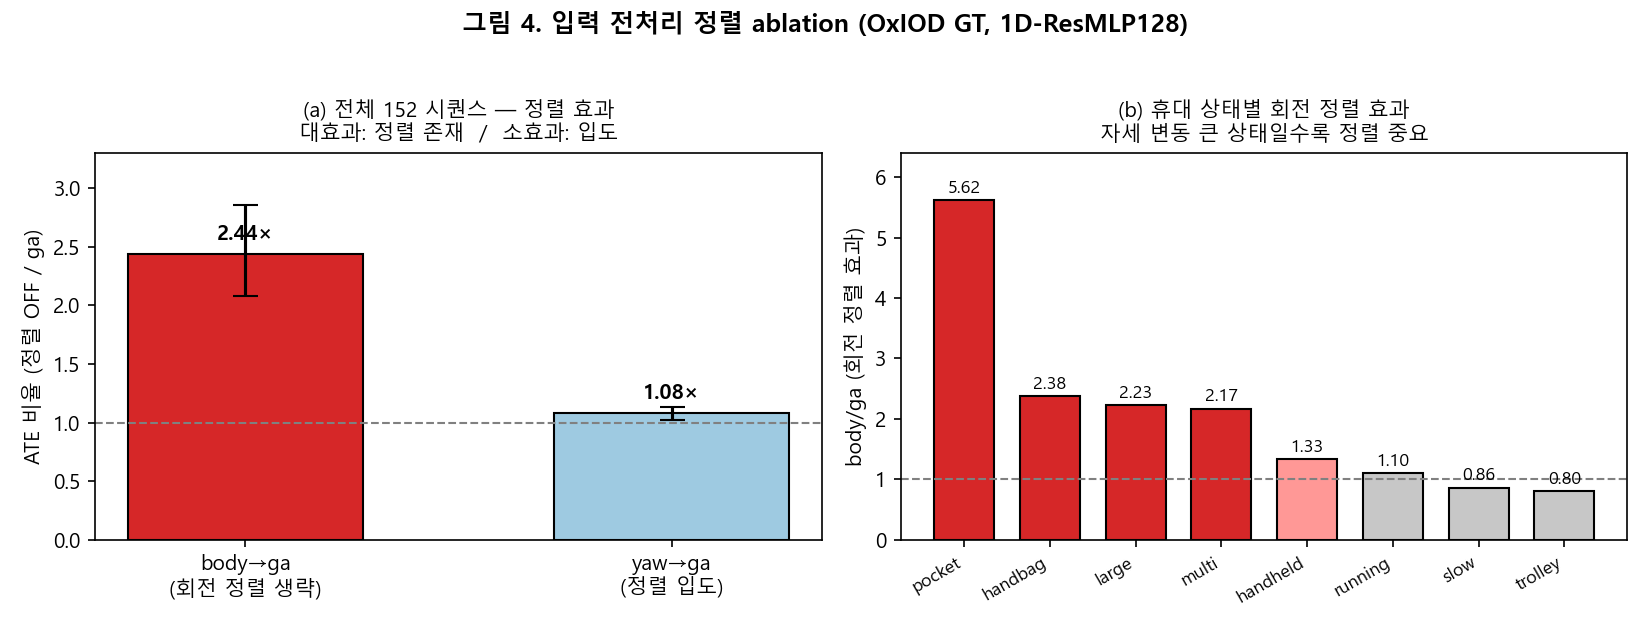
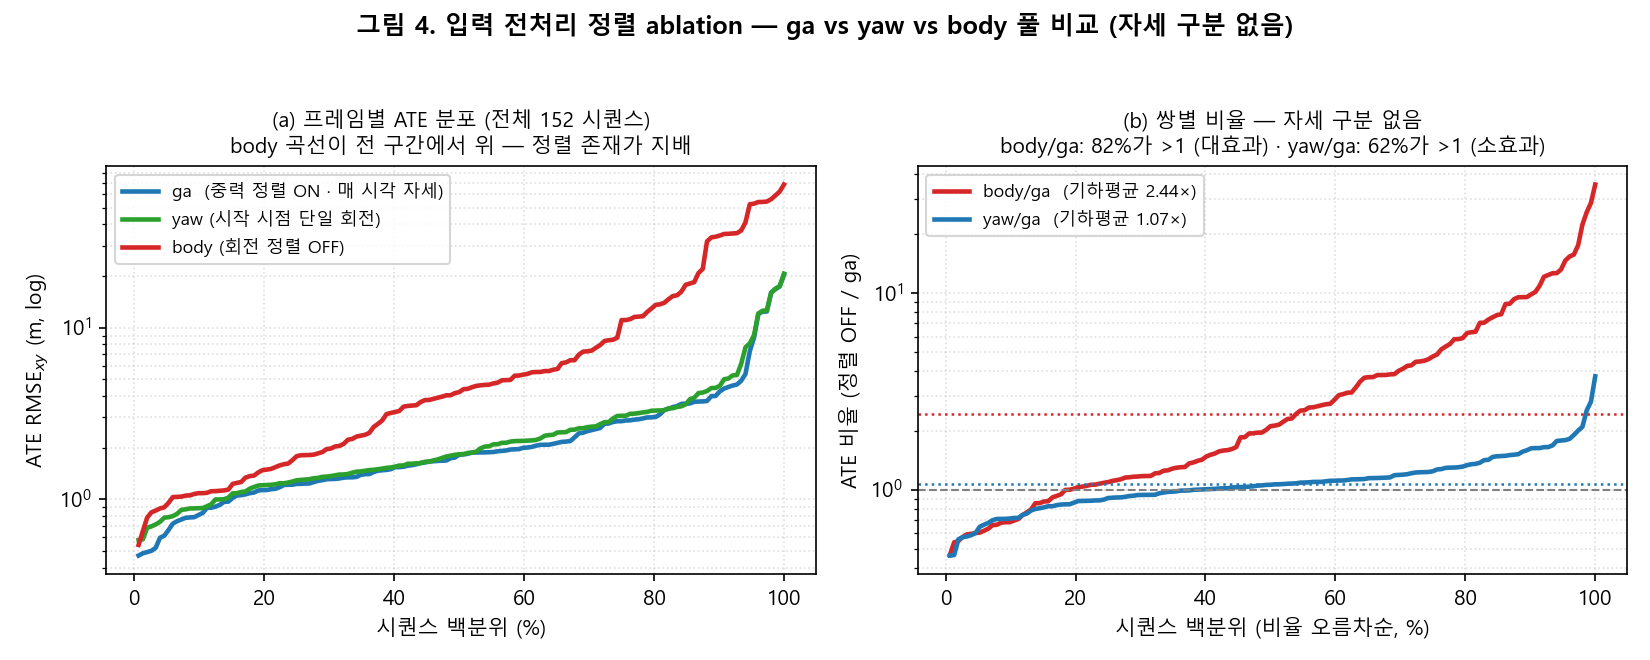
P83b: redesign §4.6.1 fig as pooled ga/yaw/body line comparison (no per-posture split)
막대 -> 선형(분포곡선+쌍별비율) 직접비교. 자세 구분 제거.
body/ga 2.44x(82%>1), yaw/ga 1.08x(62%>1), 중앙값 ga1.82 yaw1.83 body4.29.

diff --git a/doc/paper_fig/make_fig_4_6_1_v2.py b/doc/paper_fig/make_fig_4_6_1_v2.py
@@ -1,0 +1,59 @@
+# -*- coding: utf-8 -*-
+"""§4.6.1 재설계: 자세 구분 없이 ga/yaw/body 세 전처리를 풀(pooled) 직접 비교.
+fig5 와 동일한 선형(line) 스타일. 전체 152 시퀀스(oxiod_significance.csv)."""
+import csv, math, numpy as np, matplotlib
+matplotlib.use("Agg")
+import matplotlib.pyplot as plt
+from matplotlib import font_manager
+for fn in ("Malgun Gothic", "맑은 고딕", "Gulim"):
+    try:
+        font_manager.findfont(fn, fallback_to_default=False); plt.rcParams["font.family"] = fn; break
+    except Exception:
+        continue
+plt.rcParams["axes.unicode_minus"] = False
+LOG = r"D:\mobile\imu_android\logs"
+
+with open(LOG + r"\oxiod_significance.csv", encoding="utf-8") as f:
+    rows = list(csv.DictReader(f))
+ga  = np.array([float(r["ga"])   for r in rows])
+yaw = np.array([float(r["yaw"])  for r in rows])
+body= np.array([float(r["body"]) for r in rows])
+N = len(rows)
+pct = (np.arange(1, N + 1) / N) * 100
+geo = lambda a: math.exp(float(np.mean(np.log(a))))
+
+fig, ax = plt.subplots(1, 2, figsize=(11, 4.4))
+
+# (a) 프레임별 ATE 분포 — 각 프레임 독립 정렬(역CDF), log-y
+ax[0].plot(pct, np.sort(ga),  "-", color="#1f77b4", lw=2.2, label="ga  (중력 정렬 ON · 매 시각 자세)")
+ax[0].plot(pct, np.sort(yaw), "-", color="#2ca02c", lw=2.2, label="yaw (시작 시점 단일 회전)")
+ax[0].plot(pct, np.sort(body),"-", color="#d62728", lw=2.2, label="body (회전 정렬 OFF)")
+ax[0].set_yscale("log")
+ax[0].set_xlabel("시퀀스 백분위 (%)")
+ax[0].set_ylabel("ATE RMSE$_{xy}$ (m, log)")
+ax[0].legend(fontsize=8.5, loc="upper left")
+ax[0].set_title("(a) 프레임별 ATE 분포 (전체 152 시퀀스)\nbody 곡선이 전 구간에서 위 — 정렬 존재가 지배", fontsize=10)
+ax[0].grid(True, which="both", ls=":", alpha=0.4)
+
+# (b) 쌍별 비율 (정렬 OFF / ga), 시퀀스별 오름차순, log-y
+bg = np.sort(body / ga); yg = np.sort(yaw / ga)
+gm_bg, gm_yg = geo(body / ga), geo(yaw / ga)
+fr_bg = float(np.mean(body / ga > 1) * 100); fr_yg = float(np.mean(yaw / ga > 1) * 100)
+ax[1].plot(pct, bg, "-", color="#d62728", lw=2.2, label=f"body/ga  (기하평균 {gm_bg:.2f}×)")
+ax[1].plot(pct, yg, "-", color="#1f77b4", lw=2.2, label=f"yaw/ga  (기하평균 {gm_yg:.2f}×)")
+ax[1].axhline(1.0, ls="--", color="gray", lw=1)
+ax[1].axhline(gm_bg, ls=":", color="#d62728", lw=1.2)
+ax[1].axhline(gm_yg, ls=":", color="#1f77b4", lw=1.2)
+ax[1].set_yscale("log")
+ax[1].set_xlabel("시퀀스 백분위 (비율 오름차순, %)")
+ax[1].set_ylabel("ATE 비율 (정렬 OFF / ga)")
+ax[1].legend(fontsize=8.5, loc="upper left")
+ax[1].set_title(f"(b) 쌍별 비율 — 자세 구분 없음\nbody/ga: {fr_bg:.0f}%가 >1 (대효과) · yaw/ga: {fr_yg:.0f}%가 >1 (소효과)", fontsize=10)
+ax[1].grid(True, which="both", ls=":", alpha=0.4)
+
+fig.suptitle("그림 4. 입력 전처리 정렬 ablation — ga vs yaw vs body 풀 비교 (자세 구분 없음)", fontweight="bold")
+fig.tight_layout(rect=[0, 0, 1, 0.94])
+fig.savefig(LOG + r"\fig_4_6_1_frame_ablation.png", dpi=150)
+print("saved fig_4_6_1_frame_ablation.png")
+print(f"body/ga geomean={gm_bg:.3f}  ({fr_bg:.0f}% >1) ; yaw/ga geomean={gm_yg:.3f}  ({fr_yg:.0f}% >1)")
+print(f"ATE median ga={np.median(ga):.2f} yaw={np.median(yaw):.2f} body={np.median(body):.2f}")
